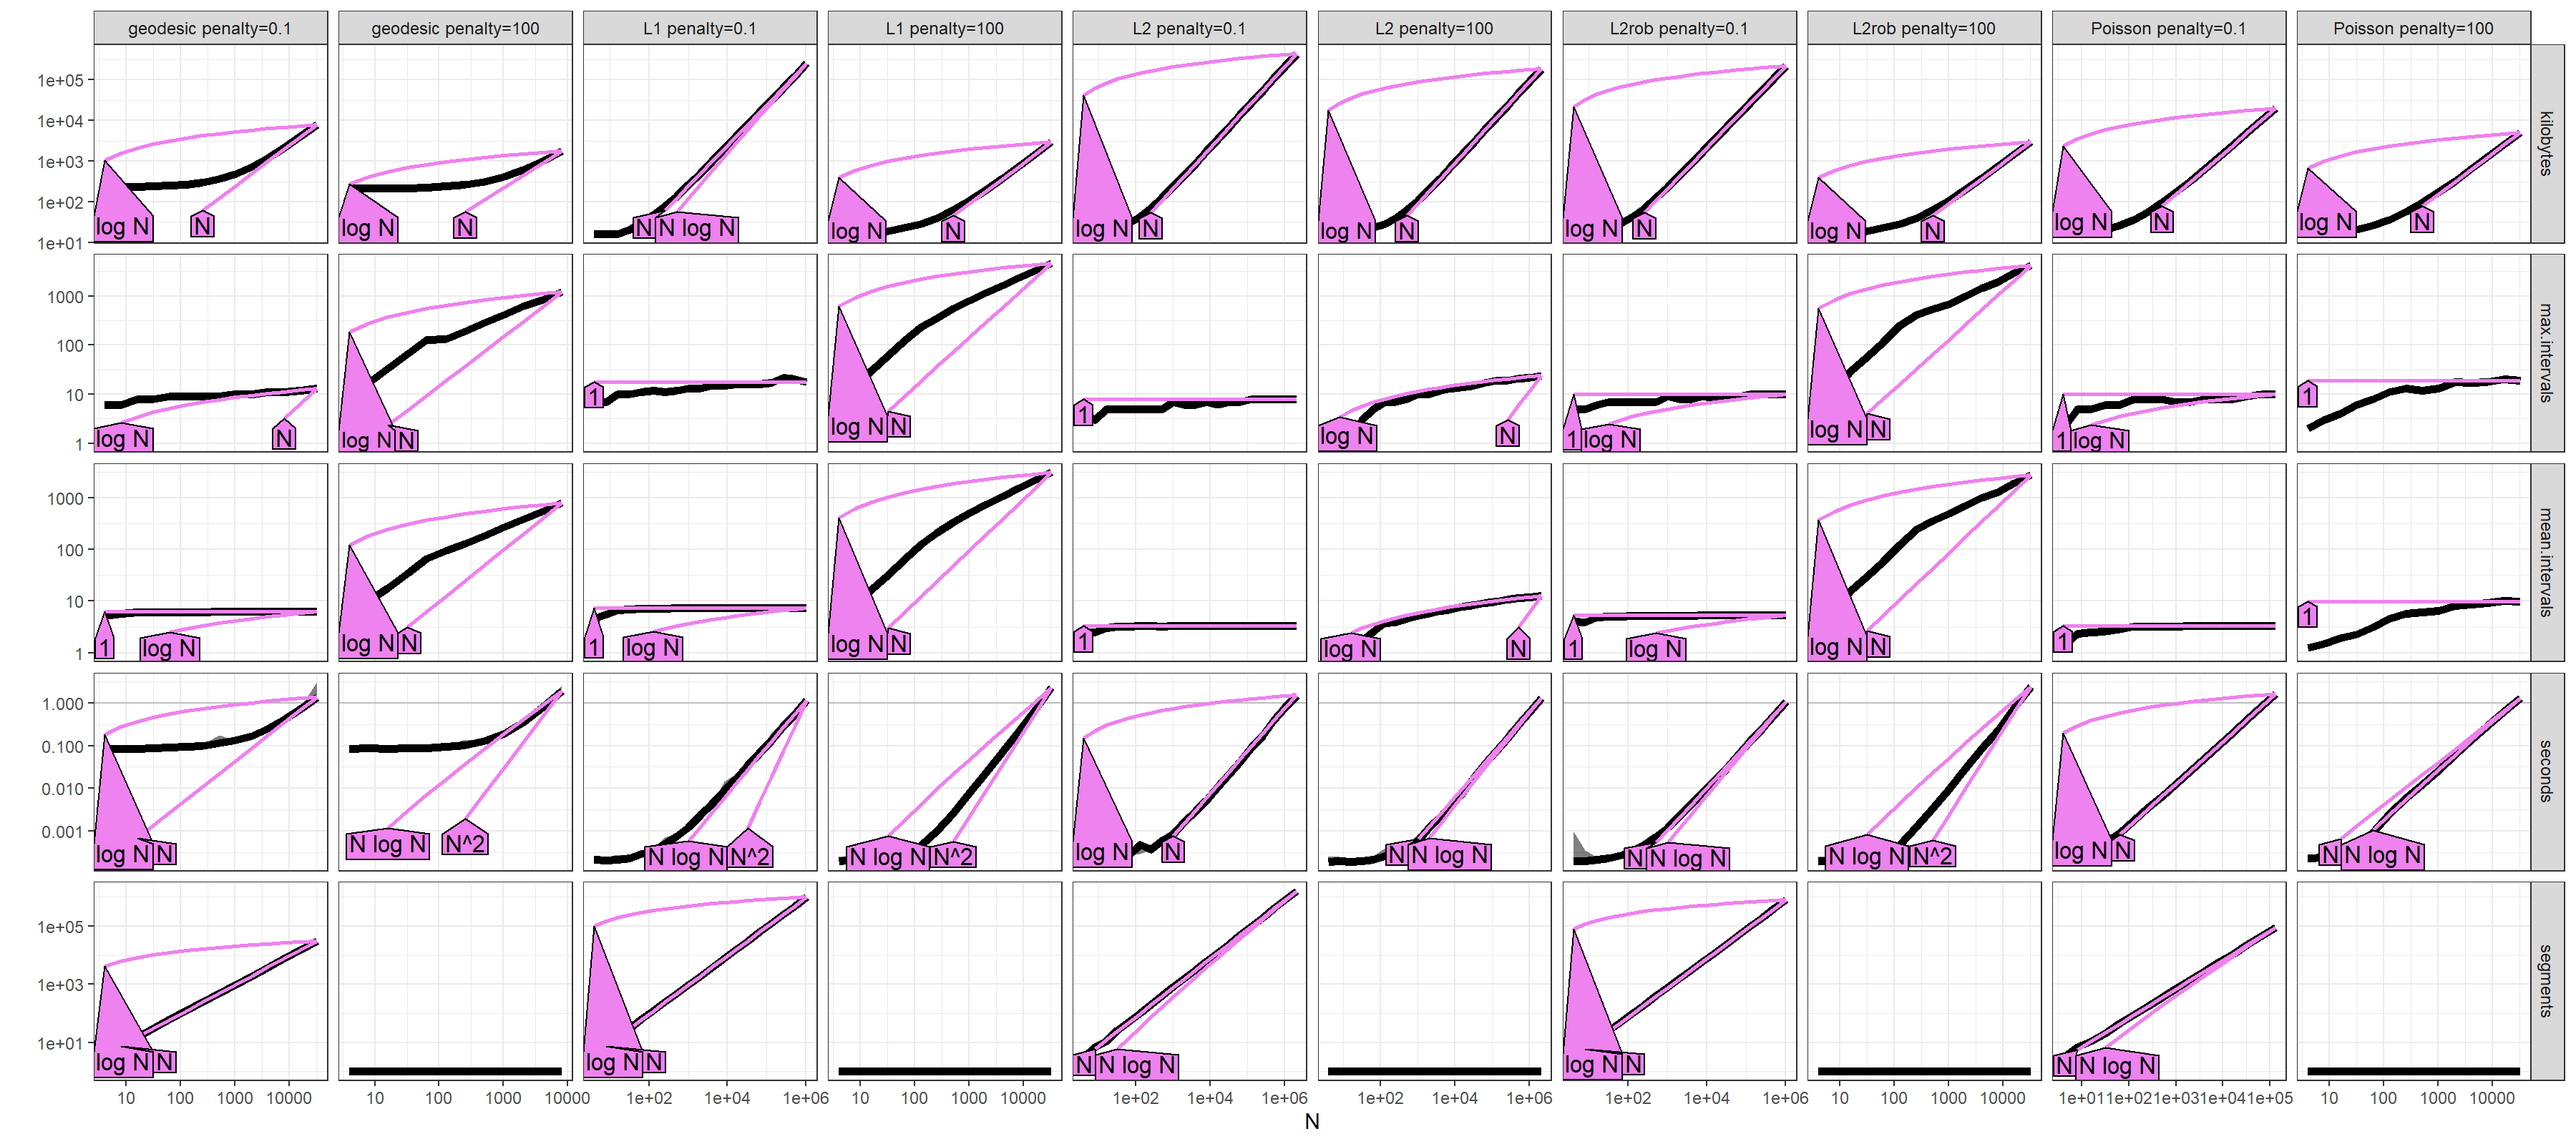
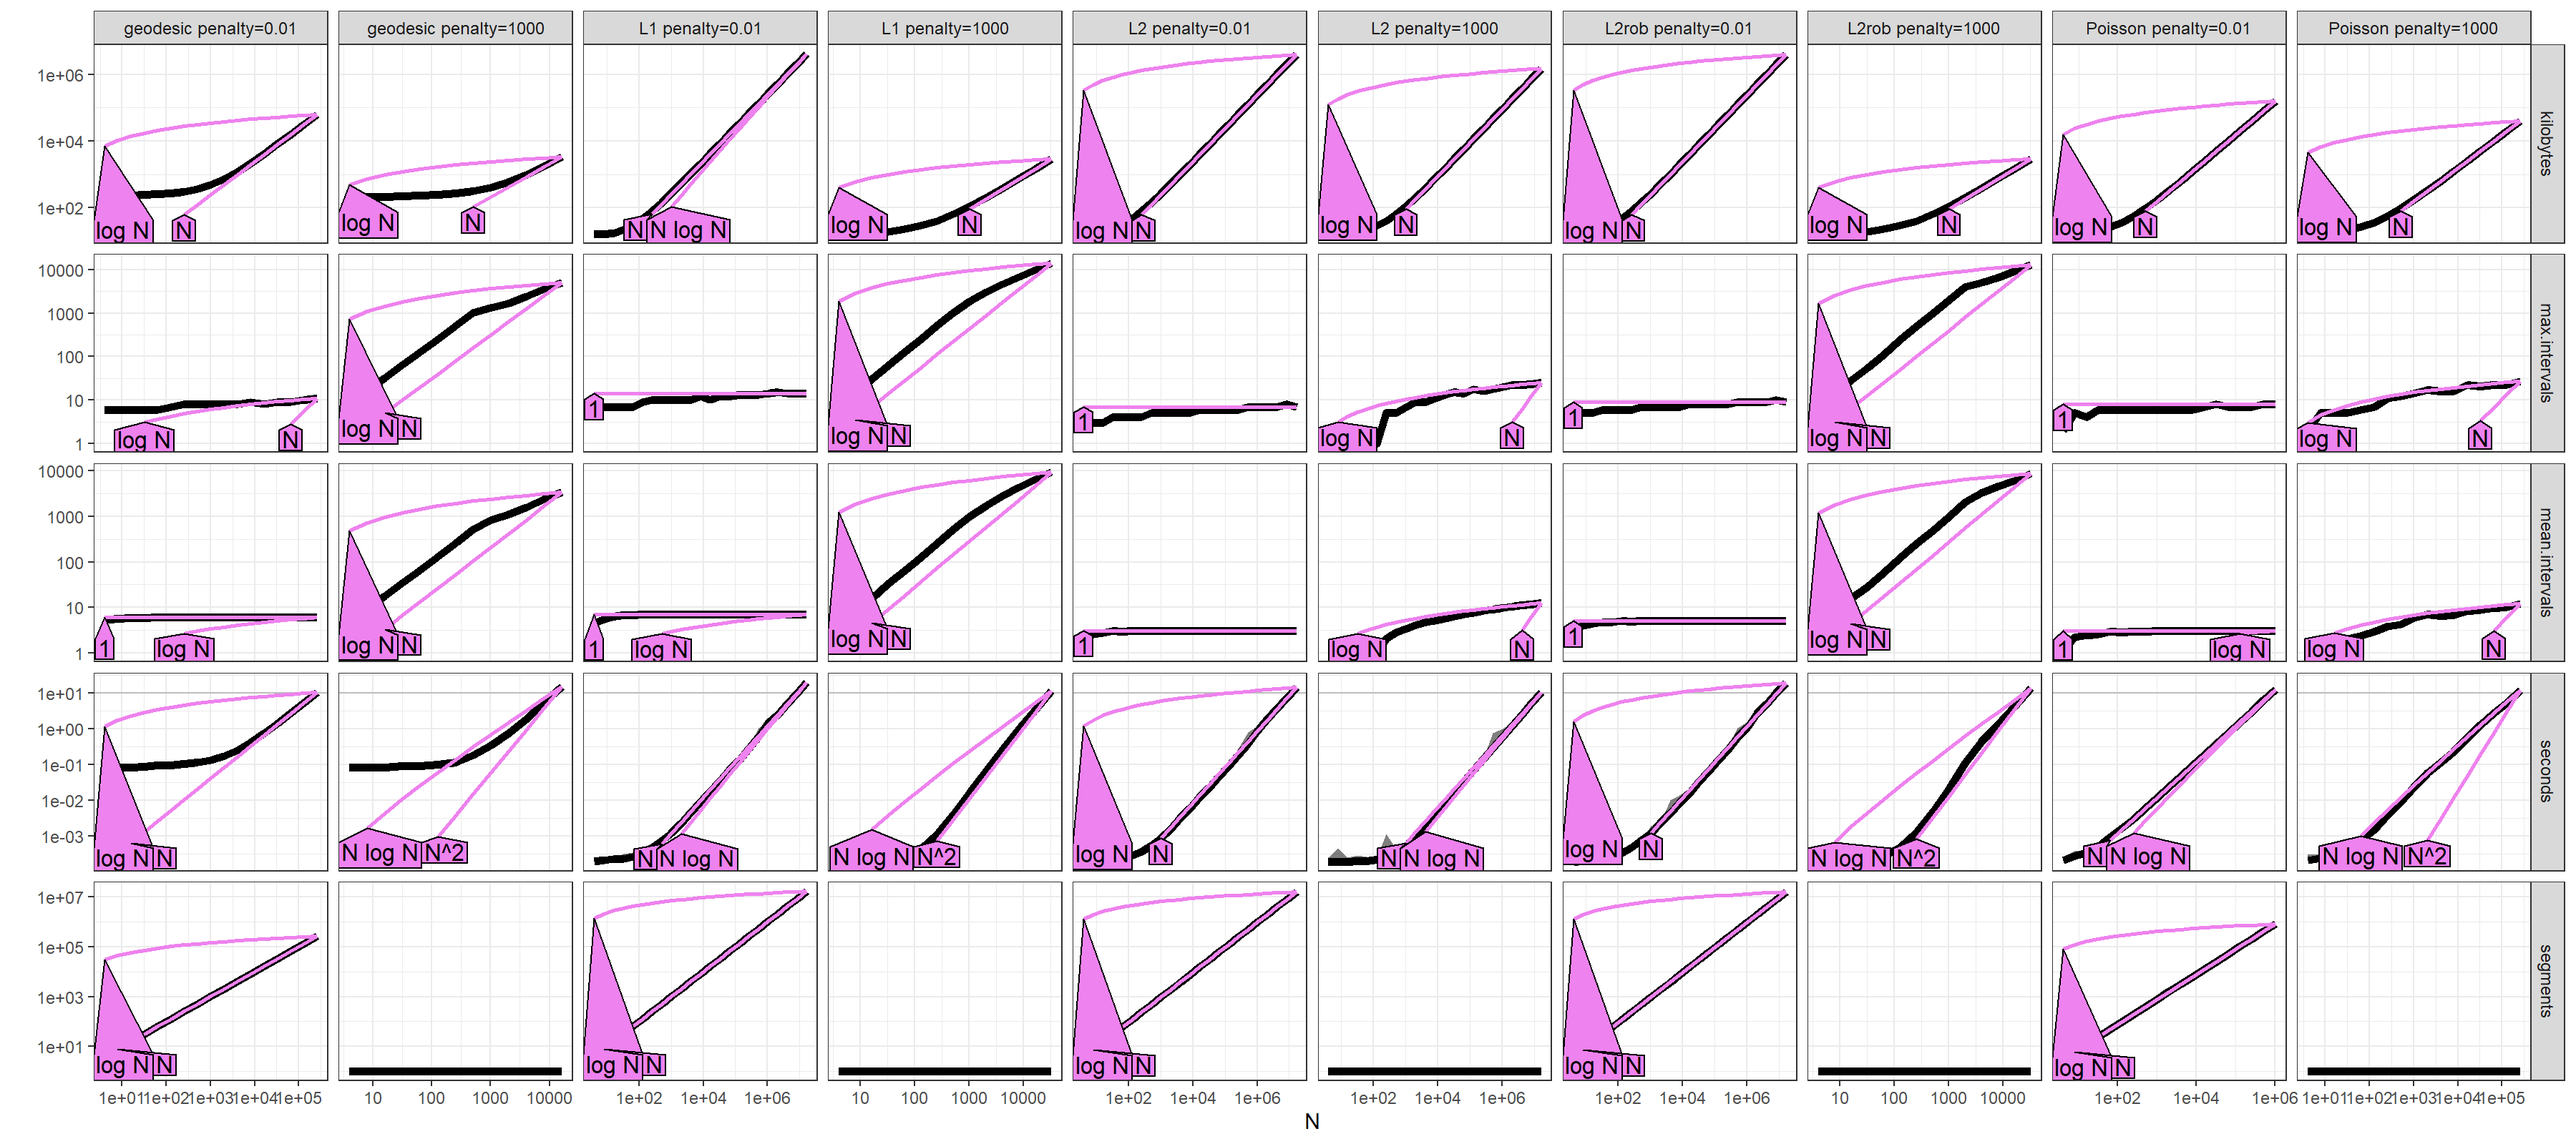
geodesic with four penalties to see transition

diff --git a/README.md b/README.md
@@ -4,6 +4,10 @@
 
 ![asymptotic two penalties several losses](figure-geodesicFPOP-robseg.png)
 
+[figure-geodesic-penalties.R](figure-geodesic-penalties.R) makes
+
+![asymptotic four penalties for geodesic loss](figure-geodesic-penalties.png)
+
 # 10 Apr 2024
 
 [figure-approx-algo-1d.R](figure-approx-algo-1d.R) makes
